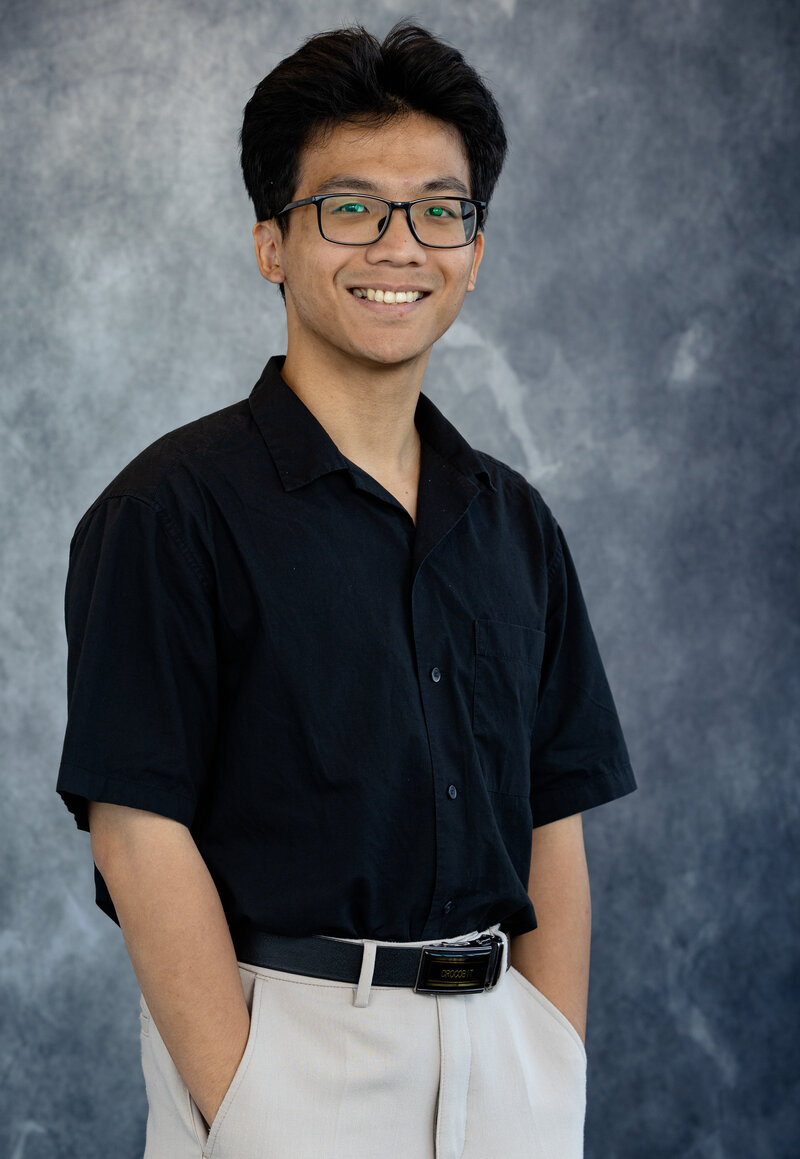
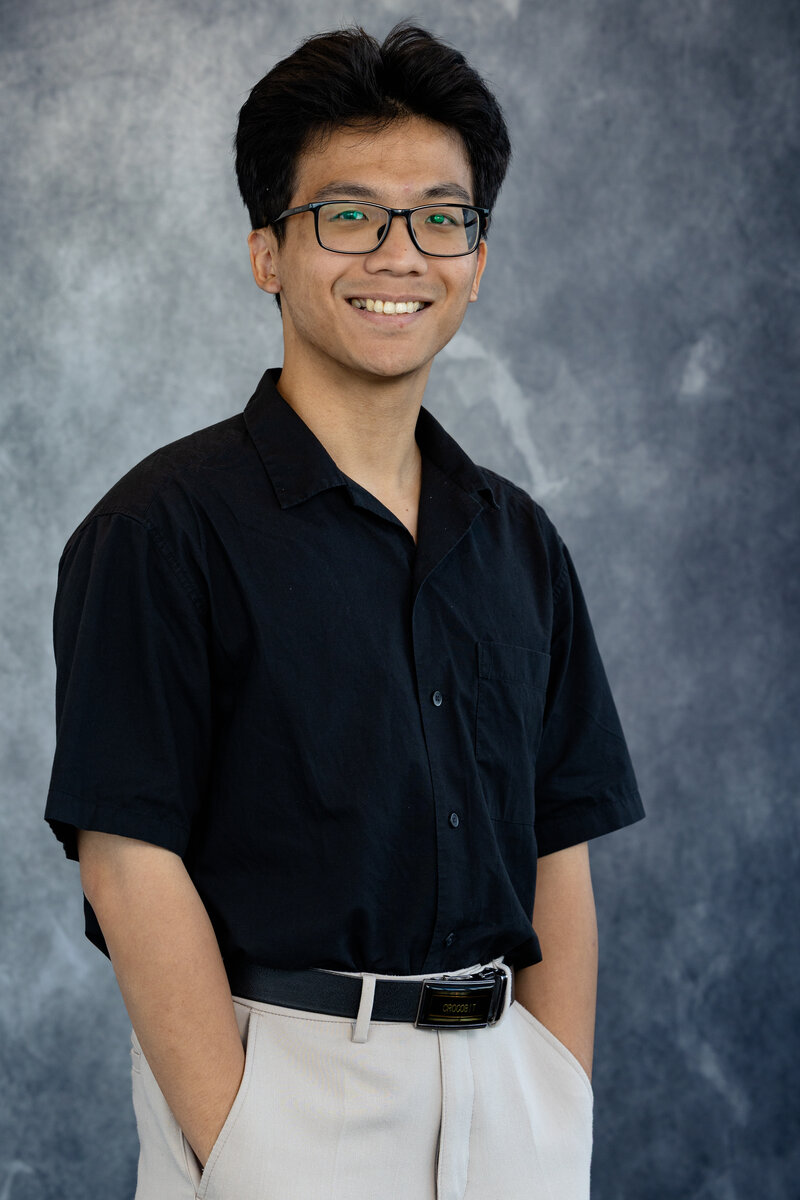
fix pfp

diff --git a/index.html b/index.html
@@ -18,7 +18,7 @@
     <link rel="preconnect" href="https://fonts.gstatic.com" crossorigin>
     <link rel="stylesheet"
         href="https://fonts.googleapis.com/css2?family=Fraunces:opsz,wght@9..144,500&family=Noto+Sans+Mono:wdth,wght@62.5..100,400..500&display=swap">
-    <link rel="stylesheet" href="asset/css/styles.css?v=20261107-5">
+    <link rel="stylesheet" href="asset/css/styles.css?v=20261107-6">
     <link rel="stylesheet" href="asset/css/pygment_trac.css">
     <meta name="viewport" content="width=device-width">
     <!--[if lt IE 9]>
@@ -33,17 +33,44 @@
             <p> Robotics · Computer Vision @ <a href="https://www.brown.edu/" target="_blank" rel="noopener noreferrer" title="Brown">Brown</a></p>
             <span>
                 <!-- Random profile photo on each visit. The list is maintained by tools/profile-pic.sh. -->
-                <img id="profile-pic" data-photos="asset/media/profile/pfp-headshot.jpg,asset/media/profile/pfp-outdoor.jpg,asset/media/profile/pfp-selfie.jpg" alt="Manh Tran"
-                    style="max-width: 230px; width: 100%; height: auto;">
+                <img id="profile-pic" data-photos="asset/media/profile/pfp-headshot.jpg,asset/media/profile/pfp-outdoor.jpg" alt="Manh Tran"
+                    style="max-width: 230px; width: 100%; height: auto; aspect-ratio: 2 / 3;">
+                <button id="profile-flip" class="profile-flip" type="button" hidden>
+                    <svg width="14" height="14" viewBox="0 0 24 24" aria-hidden="true"><path d="M12 5V2L8 6l4 4V7c3.31 0 6 2.69 6 6a6 6 0 0 1-11.65 2H4.26A8 8 0 0 0 20 13c0-4.42-3.58-8-8-8z" /></svg><span>Flip me</span>
+                </button>
                 <script>
                     (function () {
                         var img = document.getElementById('profile-pic');
                         var list = img.dataset.photos.split(',').filter(Boolean);
-                        img.src = list[Math.floor(Math.random() * list.length)];
+                        var i = Math.floor(Math.random() * list.length);
+                        img.src = list[i];
+
+                        // "Flip me": show the next photo with a card-flip turn
+                        var btn = document.getElementById('profile-flip');
+                        if (list.length < 2) return;
+                        btn.hidden = false;
+                        var still = window.matchMedia('(prefers-reduced-motion: reduce)').matches;
+                        var busy = false;
+                        btn.addEventListener('click', function () {
+                            if (busy) return;
+                            busy = true;
+                            i = (i + 1) % list.length;
+                            var next = new Image();
+                            next.onload = next.onerror = function () {
+                                if (still) { img.src = list[i]; busy = false; return; }
+                                img.classList.add('is-flipping');
+                                setTimeout(function () {
+                                    img.src = list[i];
+                                    img.classList.remove('is-flipping');
+                                    busy = false;
+                                }, 180);
+                            };
+                            next.src = list[i];
+                        });
                     })();
                 </script>
                 <noscript><img style="max-width: 230px; width: 100%; height: auto;" alt="Manh Tran"
-                        src="asset/media/profile/pfp-selfie.jpg"></noscript>
+                        src="asset/media/profile/pfp-headshot.jpg"></noscript>
             </span>
             <p class="description">
             </p>
@@ -383,7 +410,7 @@
             </div>
         </section>
     </div>
-    <script src="asset/script/scale.fix.js?v=20261107-5"></script>
+    <script src="asset/script/scale.fix.js?v=20261107-6"></script>
 </body>
 
 </html>

diff --git a/asset/css/styles.css b/asset/css/styles.css
@@ -823,3 +823,48 @@ screen and (max-width: 480px) {
   white-space: nowrap;
 }
 
+/* ---------- sidebar profile photo: "Flip me" ---------- */
+
+#profile-pic {
+  display: block;
+  transition: transform 0.18s ease-in-out;
+}
+
+#profile-pic.is-flipping {
+  transform: perspective(600px) rotateY(90deg);
+}
+
+.profile-flip {
+  display: inline-flex;
+  align-items: center;
+  gap: 0.4rem;
+  margin-top: 0.5rem;
+  padding: 0;
+  border: 0;
+  background: none;
+  font: inherit;
+  font-size: 0.85rem;
+  color: var(--text-muted);
+  cursor: pointer;
+}
+
+.profile-flip[hidden] {
+  display: none;
+}
+
+.profile-flip:hover {
+  color: var(--accent);
+}
+
+.profile-flip svg {
+  width: 14px;
+  height: 14px;
+  fill: currentColor;
+}
+
+@media print {
+  .profile-flip {
+    display: none;
+  }
+}
+

diff --git a/devlog/pidrone.html b/devlog/pidrone.html
@@ -18,7 +18,7 @@
     <link rel="preconnect" href="https://fonts.gstatic.com" crossorigin>
     <link rel="stylesheet"
         href="https://fonts.googleapis.com/css2?family=Fraunces:opsz,wght@9..144,500&family=Noto+Sans+Mono:wdth,wght@62.5..100,400..500&display=swap">
-    <link rel="stylesheet" href="../asset/css/styles.css?v=20261107-5">
+    <link rel="stylesheet" href="../asset/css/styles.css?v=20261107-6">
 </head>
 
 <body>
@@ -110,7 +110,7 @@
         </article>
     </div>
 
-    <script src="../asset/script/scale.fix.js?v=20261107-5"></script>
+    <script src="../asset/script/scale.fix.js?v=20261107-6"></script>
 </body>
 
 </html>
